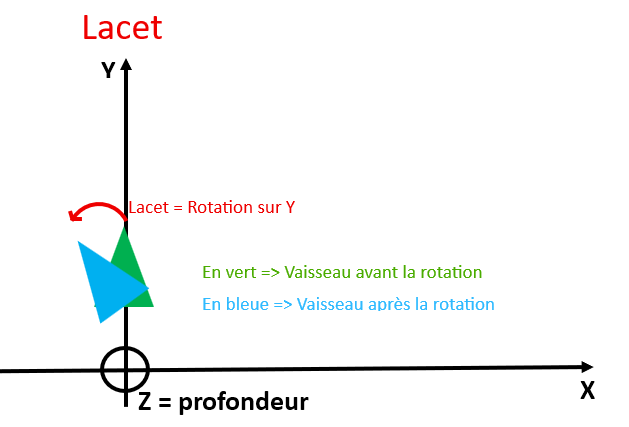
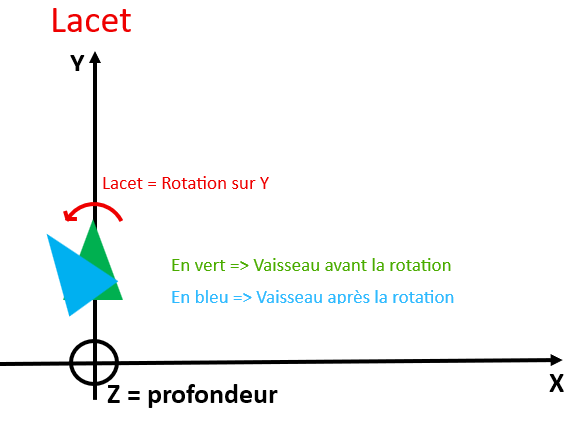
DOCS: correct spelling mistakes in architecture.md

Changed region(s): [[0.0, 0.1218, 0.9813, 0.9742], [0.276, 0.6089, 0.7973, 0.7307], [0.092, 0.0304, 0.276, 0.0913]]

diff --git a/JOURNAL.md b/JOURNAL.md
@@ -253,3 +253,15 @@ Règle : toute session de travail (surtout avec un agent de codage) se termine p
 **Prochaine étape** : à la reprise — (a) Thierry committe + pushe le chantier en attente après test visuel (Q 3-4 s = looping complet cadré) ; (b) réexpliquer la formule `forward` et discuter la règle du cœur pur ; (c) ensuite roulis (axe Z, touches libres ex. A/D) pour finir le 6DOF, ou `stopPower` dédié pour le frein auto.
 
 **Règle du projet** : une session = une victoire.
+
+---
+
+## 2026-11-15 — Session 14 : reprise — ARCHITECTURE.md explique la boussole `forward`, les deux questions ouvertes tranchées
+
+**Fait** : pris connaissance du nouveau ARCHITECTURE.md (commit `20c010f`, 15 nov. 2026) — nouvelle section « La boussole `forward` — la trigonométrie du nez » (~160 lignes + 3 schémas `docs/schemas/lacet.png`, `tangage.png`, `roulis.png`) qui explique ligne par ligne les 3 lignes de `newton.ts` (`forwardX/Y/Z`, dont `forwardY = sin(rx)·cos(ry)`) : contrat de norme 1, sin/cos lus comme des pourcentages de mouvement, ce que chaque rotation déplace (le roulis ne déplace pas le nez), cas extrêmes, ordre des calculs = ordre Euler XYZ de three.js. **Cela clôt la question ouverte 1** de la session 13 (la formule `forward` réexpliquée autrement). **Question ouverte 2 tranchée avec Thierry : la règle « zéro three.js dans `game/` » est conservée telle quelle** — ARCHITECTURE.md ne bouge pas côté règle. Prochaine étape choisie : **roulis (axe Z)** pour finir le 6DOF — code présenté en chat (5 fichiers, ~14 lignes : `intents.ts`, `state.ts`, `keyboard.ts` KeyA/KeyD, `PlayerShip.ts`, `newton.ts`), **en attente du « applique »** de Thierry. Aucun fichier de code modifié.
+
+**Appris / incidents** : rien de cassé. La nouvelle section actée dans le doc : limite assumée de l'ordre Euler XYZ (à lacet 90°, `cos(ry)=0`, le tangage n'agit plus sur le nez) — cohérent avec le code, à revoir si des loopings ennemis arrivent. La ligne de bas de page « Dernière mise à jour » a été retirée d'ARCHITECTURE.md dans `20c010f` (commit de Thierry, laissé tel quel). Côté doc, cohérence relue (règle 8) : la section 11 du sommaire pointe bien vers la nouvelle section, aucune contradiction avec le reste.
+
+**Prochaine étape** : sur « applique » de Thierry, écrire le roulis (KeyA/KeyD), puis vérifier `tsc --noEmit` propre hors démo, `GET /play` → 200, chunk servi contenant `rollLeft`/`KeyA`, test visuel en jeu (roulis + signe de l'axe Z à confirmer en jouant ; l'horizon s'inclinera avec la caméra collée au repère vaisseau — clamp caméra à discuter seulement si mal de mer). Puis commit + push par Thierry.
+
+**Règle du projet** : une session = une victoire.
